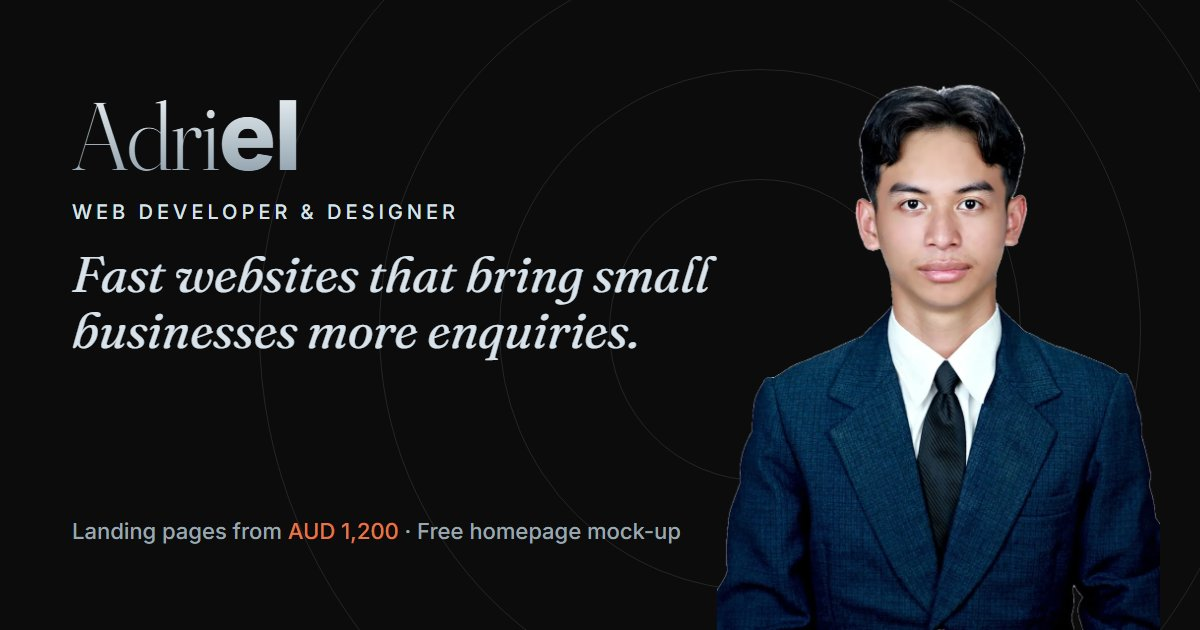
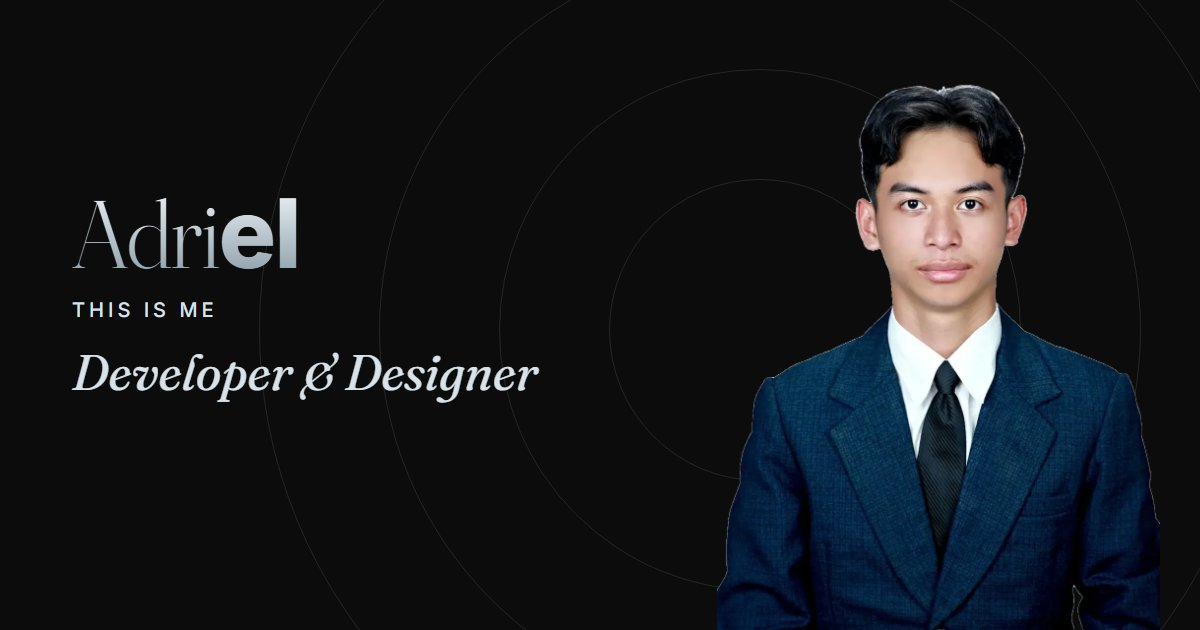
revert: bring back the original hero, title and preview image; remove prices and the speed claim (#18)

Changed region(s): [[0.0617, 0.3016, 0.6167, 0.6333], [0.0617, 0.8143, 0.5858, 0.8746], [0.0617, 0.1508, 0.2467, 0.2714]]

diff --git a/src/components/Hero.tsx b/src/components/Hero.tsx
@@ -15,36 +15,31 @@ import { ContourBackground } from './ContourBackground'
 import { Signature, StageBackdrop, useHeroGeometry } from './ScrollStage'
 
 function HeroText({ role, heading }: { role: string; heading: boolean }) {
-  const ctaClass =
-    'relative mt-6 inline-flex w-fit items-center rounded-full bg-fg px-6 py-3 text-base font-medium text-bg md:mt-8'
+  const nameClass =
+    // Sized by the shorter of width and height, so the words fit short windows and phones on their side
+    'hero-name relative text-[clamp(2.5rem,min(15vw,24vh),12rem)] leading-[0.9] tracking-tight'
+  const name = (
+    <>
+      <span className="font-display font-light">{profile.name.slice(0, -2)}</span>
+      <span className="font-sans font-extrabold">{profile.name.slice(-2)}</span>
+    </>
+  )
   return (
     // Held upright, the words sit at the top and leave the portrait below them clear
-    <div className="mx-auto flex h-full max-w-6xl flex-col justify-center px-6 pt-20 portrait:justify-start portrait:pt-24">
-      <p
-        aria-label={heading ? profile.name : undefined}
-        // Sized by the shorter of width and height, so the words fit short windows and phones on their side
-        className="hero-name relative text-[clamp(2.5rem,min(15vw,24vh),12rem)] leading-[0.9] tracking-tight"
-      >
-        <span className="font-display font-light">{profile.name.slice(0, -2)}</span>
-        <span className="font-sans font-extrabold">{profile.name.slice(-2)}</span>
-      </p>
-      <p className="relative mt-3 text-sm font-medium uppercase tracking-[0.2em] md:mt-4">{`Web ${role}`}</p>
+    <div className="mx-auto flex h-full max-w-6xl flex-col justify-center px-6 pt-20 portrait:justify-start portrait:pt-28">
       {heading ? (
-        <h1 className="relative mt-3 max-w-[22ch] font-display text-[clamp(1.35rem,min(4vw,6.5vh),3rem)] italic leading-tight md:mt-5">
-          {profile.offer}
+        <h1 aria-label={profile.name} className={nameClass}>
+          {name}
         </h1>
       ) : (
-        <p className="relative mt-3 max-w-[22ch] font-display text-[clamp(1.35rem,min(4vw,6.5vh),3rem)] italic leading-tight md:mt-5">
-          {profile.offer}
-        </p>
+        <div className={nameClass}>{name}</div>
       )}
-      {heading ? (
-        <a href={profile.cta.href} className={ctaClass}>
-          {profile.cta.label}
-        </a>
-      ) : (
-        <span className={ctaClass}>{profile.cta.label}</span>
-      )}
+      <p className="relative mt-3 text-sm font-medium uppercase tracking-[0.2em] md:mt-4">
+        {profile.tagline}
+      </p>
+      <p className="relative mt-4 font-display text-[clamp(1rem,min(4vw,6.5vh),3rem)] italic md:mt-6">
+        {role}
+      </p>
     </div>
   )
 }

diff --git a/index.html b/index.html
@@ -3,26 +3,26 @@
   <head>
     <meta charset="UTF-8" />
     <meta name="viewport" content="width=device-width, initial-scale=1.0" />
-    <title>Adriel | Fast websites for small businesses in Australia &amp; Singapore</title>
+    <title>Jovanic Adriel Harjanto | Full-Stack Developer &amp; Designer</title>
     <meta
       name="description"
-      content="Web developer and designer building fast, mobile-first websites that bring small businesses more enquiries. Fixed prices from AUD 1,200, with a free homepage mock-up first."
+      content="Portfolio of Jovanic Adriel Harjanto: computer science student, full-stack developer, and designer who builds products and leads the teams behind them."
     />
     <!-- Update these URLs when the site moves to its own domain -->
     <link rel="canonical" href="https://adriel-portofolio.pages.dev/" />
     <meta property="og:type" content="website" />
     <meta property="og:url" content="https://adriel-portofolio.pages.dev/" />
-    <meta property="og:title" content="Adriel | Fast websites for small businesses" />
+    <meta property="og:title" content="Jovanic Adriel Harjanto | Full-Stack Developer &amp; Designer" />
     <meta
       property="og:description"
-      content="Fast, mobile-first websites that bring small businesses more enquiries. Fixed prices, free homepage mock-up."
+      content="Portfolio of Jovanic Adriel Harjanto: computer science student, full-stack developer, and designer who builds products and leads the teams behind them."
     />
     <meta property="og:image" content="https://adriel-portofolio.pages.dev/og-image.jpg" />
     <meta property="og:image:width" content="1200" />
     <meta property="og:image:height" content="630" />
     <meta
       property="og:image:alt"
-      content="Adriel, web developer and designer: fast websites that bring small businesses more enquiries."
+      content="Adriel, developer and designer."
     />
     <meta name="twitter:card" content="summary_large_image" />
     <!-- The hero portrait is the largest thing on screen: fetch it before the JS bundle asks for it -->

diff --git a/src/components/Nav.tsx b/src/components/Nav.tsx
@@ -6,10 +6,9 @@ import { ThemeToggle } from './ThemeToggle'
 const BAR_HEIGHT = 64
 const TOGGLE_CLASS =
   'rounded-full border border-current px-4 py-1.5 text-sm font-medium capitalize'
-const CTA_CLASS = 'rounded-full bg-fg px-4 py-1.5 text-sm font-medium text-bg'
 
 /**
- * The name, the call to action and the theme switch. Their colours follow the theme of whatever is behind them:
+ * Just the name and the theme switch. Their colours follow the theme of whatever is behind them:
  * the hero's theme first, the opposite theme once the hero scroll has flipped it. From the
  * "Selected work" section on, the header becomes a semi-transparent bar.
  */
@@ -60,12 +59,7 @@ export function Nav({ theme, onToggle }: { theme: Theme; onToggle: () => void })
           <a href="#top" className="font-display text-lg font-semibold">
             {profile.name}
           </a>
-          <div className="flex items-center gap-2">
-            <a href={profile.cta.href} className={CTA_CLASS}>
-              {profile.cta.short}
-            </a>
-            <ThemeToggle theme={theme} onToggle={onToggle} shows={behind} />
-          </div>
+          <ThemeToggle theme={theme} onToggle={onToggle} shows={behind} />
         </div>
       </header>
 
@@ -79,10 +73,7 @@ export function Nav({ theme, onToggle }: { theme: Theme; onToggle: () => void })
         >
           <div className="mx-auto flex max-w-6xl items-center justify-between px-6 py-4">
             <span className="font-display text-lg font-semibold">{profile.name}</span>
-            <span className="flex items-center gap-2">
-              <span className={CTA_CLASS}>{profile.cta.short}</span>
-              <span className={TOGGLE_CLASS}>{behind}</span>
-            </span>
+            <span className={TOGGLE_CLASS}>{behind}</span>
           </div>
         </div>
       )}

diff --git a/src/components/Hero.test.tsx b/src/components/Hero.test.tsx
@@ -2,34 +2,19 @@ import { render, screen } from '@testing-library/react'
 import { Hero } from './Hero'
 import { mockMatchMedia } from '../test/matchMedia'
 
-it('leads with the offer and one call to action', () => {
-  mockMatchMedia(() => false)
-  render(<Hero />)
-  expect(
-    screen.getByRole('heading', {
-      level: 1,
-      name: 'Fast websites that bring small businesses more enquiries.',
-    }),
-  ).toBeInTheDocument()
-  expect(screen.getByLabelText('Adriel')).toBeInTheDocument()
-  const links = screen.getAllByRole('link')
-  expect(links).toHaveLength(1)
-  expect(links[0]).toHaveTextContent('Get a free homepage mock-up')
-  expect(links[0]).toHaveAttribute('href', '#contact')
-})
-
 it('renders a static combined role when the spotlight is disabled', () => {
   mockMatchMedia(() => false)
   const { container } = render(<Hero />)
-  expect(screen.getByText('Web Developer & Designer')).toBeInTheDocument()
+  expect(screen.getByRole('heading', { level: 1, name: 'Adriel' })).toBeInTheDocument()
+  expect(screen.getByText('This is Me')).toBeInTheDocument()
+  expect(screen.getByText('Developer & Designer')).toBeInTheDocument()
   expect(container.querySelector('.spotlight-layer')).toBeNull()
 })
 
 it('renders the hidden Designer reveal layer when interactive', () => {
   mockMatchMedia(() => true)
   const { container } = render(<Hero />)
-  expect(screen.getByText('Web Developer')).toBeInTheDocument()
-  expect(screen.getAllByRole('link')).toHaveLength(1) // the lens copy of the button is not a link
+  expect(screen.getByText('Developer')).toBeInTheDocument()
   const layer = container.querySelector('.spotlight-layer')
   expect(layer).not.toBeNull()
   expect(layer).toHaveAttribute('aria-hidden', 'true')

diff --git a/src/data/projects.ts b/src/data/projects.ts
@@ -29,7 +29,7 @@ export const projects: Project[] = [
       built:
         'One page with treatments and prices, health-fund details, the next free times, a one-minute booking request and a call button that stays on screen on phones.',
       result:
-        'Lighthouse mobile performance 100/100, on screen in about 1 second. The whole page is under 5 KB, with no images, fonts or libraries to wait for.',
+        'The whole page is under 5 KB to download, with no images, fonts or libraries to wait for.',
     },
   },
   {
@@ -48,7 +48,7 @@ export const projects: Project[] = [
       built:
         "Services with 'from' prices, a four-step process, recent jobs, service areas and a quote form that asks for suburb, job type and budget up front.",
       result:
-        'Every quote request arrives with what the builder needs to price the job. Lighthouse mobile performance 100/100, on screen in about 1 second.',
+        'Every quote request arrives with what the builder needs to price the job. The page is under 5 KB to download.',
     },
   },
   {
@@ -67,7 +67,7 @@ export const projects: Project[] = [
       built:
         'The menu as real text with prices and dietary tags, a catering offer, table bookings, and opening hours on the first screen.',
       result:
-        'Customers can read the menu and book a table in under a minute. Lighthouse mobile performance 100/100, on screen in about 1 second.',
+        'Customers can read the menu and book a table in under a minute. The page is under 5 KB to download.',
     },
   },
   {

diff --git a/src/components/EnquiryForm.test.tsx b/src/components/EnquiryForm.test.tsx
@@ -8,17 +8,17 @@ async function fillIn() {
   await user.type(screen.getByLabelText('Email'), 'sam@example.com')
   await user.type(screen.getByLabelText('Business name'), 'Sam Physio')
   await user.type(screen.getByLabelText('Current website'), 'samphysio.com.au')
-  await user.selectOptions(screen.getByLabelText('What do you need?'), 'Business site')
+  await user.selectOptions(screen.getByLabelText('What do you need?'), 'A new website')
   await user.click(screen.getByRole('button', { name: 'Send enquiry' }))
 }
 
 afterEach(() => vi.unstubAllGlobals())
 
-it('asks for business name, website and what they need, with the packages as choices', () => {
+it('asks for business name, website and what they need', () => {
   render(<EnquiryForm endpoint={null} />)
   expect(screen.getByLabelText('Business name')).toBeRequired()
   expect(screen.getByLabelText('Current website')).not.toBeRequired()
-  expect(NEEDS).toEqual(['Landing page', 'Business site', 'Care plan', 'Not sure yet'])
+  expect(NEEDS).toContain('Not sure yet')
 })
 
 it('posts to the endpoint and thanks the sender', async () => {
@@ -32,7 +32,7 @@ it('posts to the endpoint and thanks the sender', async () => {
   )
   const sent = fetch.mock.calls[0][1].body as FormData
   expect(sent.get('business')).toBe('Sam Physio')
-  expect(sent.get('need')).toBe('Business site')
+  expect(sent.get('need')).toBe('A new website')
   expect(await screen.findByRole('status')).toHaveTextContent('your enquiry is on its way')
 })
 

diff --git a/src/data/profile.ts b/src/data/profile.ts
@@ -6,10 +6,8 @@ export interface Social {
 export const profile: {
   name: string
   fullName: string
+  tagline: string
   roles: { base: string; reveal: string }
-  offer: string
-  speed: string
-  cta: { label: string; short: string; href: string }
   about: string[]
   location: string
   skills: { dev: string[]; design: string[] }
@@ -21,11 +19,8 @@ export const profile: {
 } = {
   name: 'Adriel',
   fullName: 'Jovanic Adriel Harjanto',
+  tagline: 'This is Me',
   roles: { base: 'Developer', reveal: 'Designer' },
-  offer: 'Fast websites that bring small businesses more enquiries.',
-  // Measured 2026-11-16: Google Lighthouse, mobile, 3 runs per demo, every run 100
-  speed: 'The three demo sites score 100/100 for mobile performance in Google Lighthouse and show up in about 1 second.',
-  cta: { label: 'Get a free homepage mock-up', short: 'Free mock-up', href: '#contact' },
   about: [
     "I'm Adriel, a web developer and designer studying computer science at Universitas Padjadjaran in Indonesia. I build fast, mobile-first websites for small businesses: clear about what you offer, easy to contact you from, and quick to load on a phone.",
     "I've also led a 45-person student council and a 40-person city student forum, so I'm used to deadlines and keeping people updated. The full story is in my CV.",

diff --git a/src/App.test.tsx b/src/App.test.tsx
@@ -9,12 +9,10 @@ beforeEach(() => {
 
 it('renders every section in order', () => {
   render(<App />)
-  expect(screen.getByRole('heading', { level: 1, name: /^Fast websites/ })).toBeInTheDocument()
+  expect(screen.getByRole('heading', { level: 1, name: 'Adriel' })).toBeInTheDocument()
   const h2s = screen.getAllByRole('heading', { level: 2 }).map((h) => h.textContent)
   expect(h2s).toEqual([
     'Selected work',
-    'Packages & prices',
-    'How it works',
     'About',
     'Contact',
   ])
@@ -28,11 +26,6 @@ it('keeps everything after the hero in the opposite theme', () => {
   expect(below).not.toBeNull()
   expect(below?.getAttribute('data-theme')).not.toBe(page)
   expect(below).toContainElement(screen.getByRole('heading', { name: 'Selected work' }))
-})
-
-it('offers the free mock-up from the header', () => {
-  render(<App />)
-  expect(screen.getByRole('link', { name: 'Free mock-up' })).toHaveAttribute('href', '#contact')
 })
 
 it('offers a skip link and a theme toggle', () => {

diff --git a/src/App.tsx b/src/App.tsx
@@ -2,11 +2,8 @@ import { About } from './components/About'
 import { Contact } from './components/Contact'
 import { Hero } from './components/Hero'
 import { Nav } from './components/Nav'
-import { Process } from './components/Process'
 import { Projects } from './components/Projects'
 import { ScrollProgress } from './components/ScrollProgress'
-import { Services } from './components/Services'
-import { Testimonials } from './components/Testimonials'
 import { useTheme } from './hooks/useTheme'
 
 export default function App() {
@@ -26,9 +23,6 @@ export default function App() {
         {/* After the hero scroll the page stays in the opposite theme, all the way down */}
         <div data-theme={theme === 'light' ? 'dark' : 'light'} className="bg-bg text-fg">
           <Projects />
-          <Services />
-          <Process />
-          <Testimonials />
           <About />
           <Contact />
         </div>

diff --git a/src/components/ScrollStage.tsx b/src/components/ScrollStage.tsx
@@ -52,13 +52,7 @@ export function useHeroGeometry(
   const upright = size.h > size.w
   const baseH = upright ? 0.62 : 0.88 // portrait height as a share of the panel
   const maxW = upright ? 0.92 : 0.6 // ...and its widest, as a share of the screen's width
-  // Upright, the portrait's top stays below the words and the call to action (short phones, tablets)
-  const minTop = upright ? Math.max(340, 0.42 * size.h) : 0
-  const startPhotoW = Math.min(
-    baseH * size.h * PHOTO_ASPECT,
-    maxW * size.w,
-    (size.h - minTop) * PHOTO_ASPECT,
-  )
+  const startPhotoW = Math.min(baseH * size.h * PHOTO_ASPECT, maxW * size.w)
   const startH = startPhotoW / PHOTO_ASPECT / size.h
   const startLeft = upright ? (1 - startPhotoW / size.w) / 2 : 1 - 0.08 - startPhotoW / size.w
   const startLeftPct = startLeft * 100

diff --git a/src/seo.test.ts b/src/seo.test.ts
@@ -3,9 +3,9 @@ import { existsSync, readFileSync } from 'node:fs'
 const html = readFileSync('index.html', 'utf-8')
 const meta = (attr: string) => html.match(new RegExp(String.raw`${attr}"\s+content="([^"]+)"`))?.[1]
 
-it('has a client-facing title and description', () => {
-  expect(html).toMatch(/<title>[^<]*small businesses[^<]*<\/title>/)
-  expect(meta('name="description')).toMatch(/small businesses/)
+it('has a title and description', () => {
+  expect(html).toContain('<title>Jovanic Adriel Harjanto | Full-Stack Developer &amp; Designer</title>')
+  expect(meta('name="description')).toMatch(/^Portfolio of Jovanic Adriel Harjanto/)
 })
 
 it('has Open Graph tags with an image that exists', () => {

diff --git a/src/data/data.test.ts b/src/data/data.test.ts
@@ -5,7 +5,7 @@ import { projects } from './projects'
 describe('profile', () => {
   it('has the required identity fields', () => {
     expect(profile.name).toBe('Adriel')
-    expect(profile.offer.length).toBeGreaterThan(20)
+    expect(profile.tagline).toBe('This is Me')
     expect(profile.roles).toEqual({ base: 'Developer', reveal: 'Designer' })
     expect(profile.about.join(' ').length).toBeGreaterThan(20)
   })
